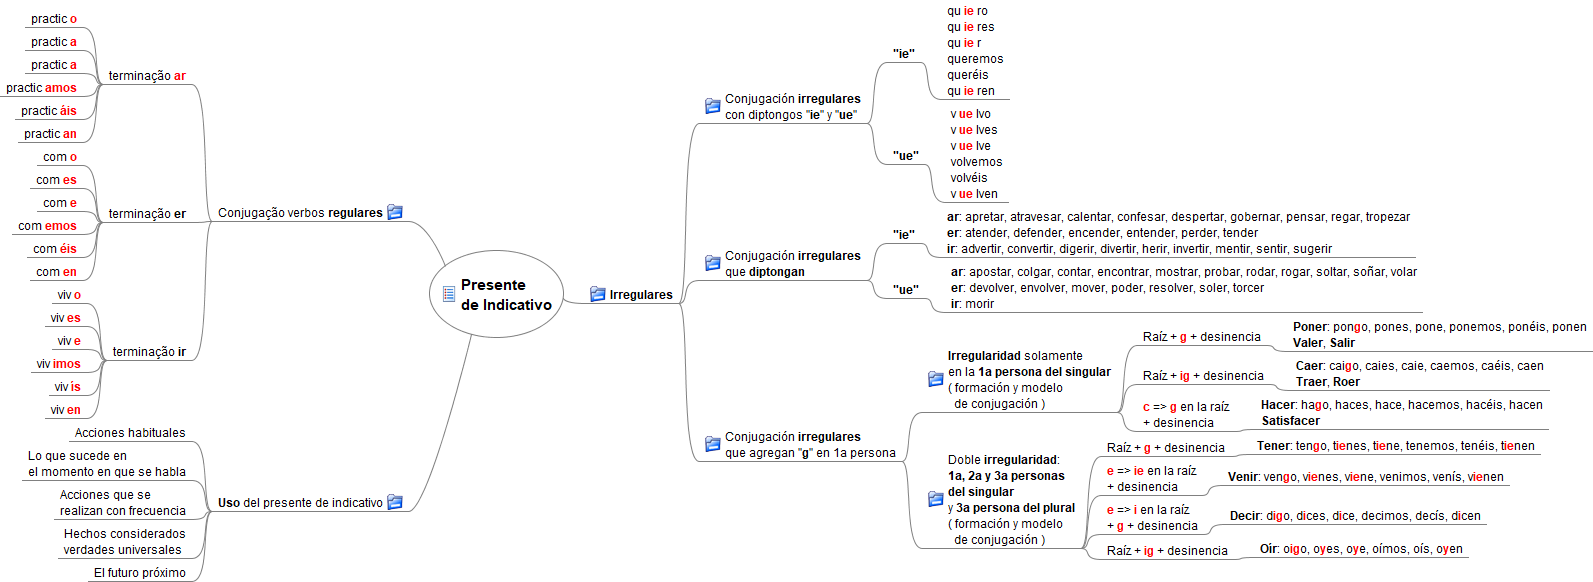
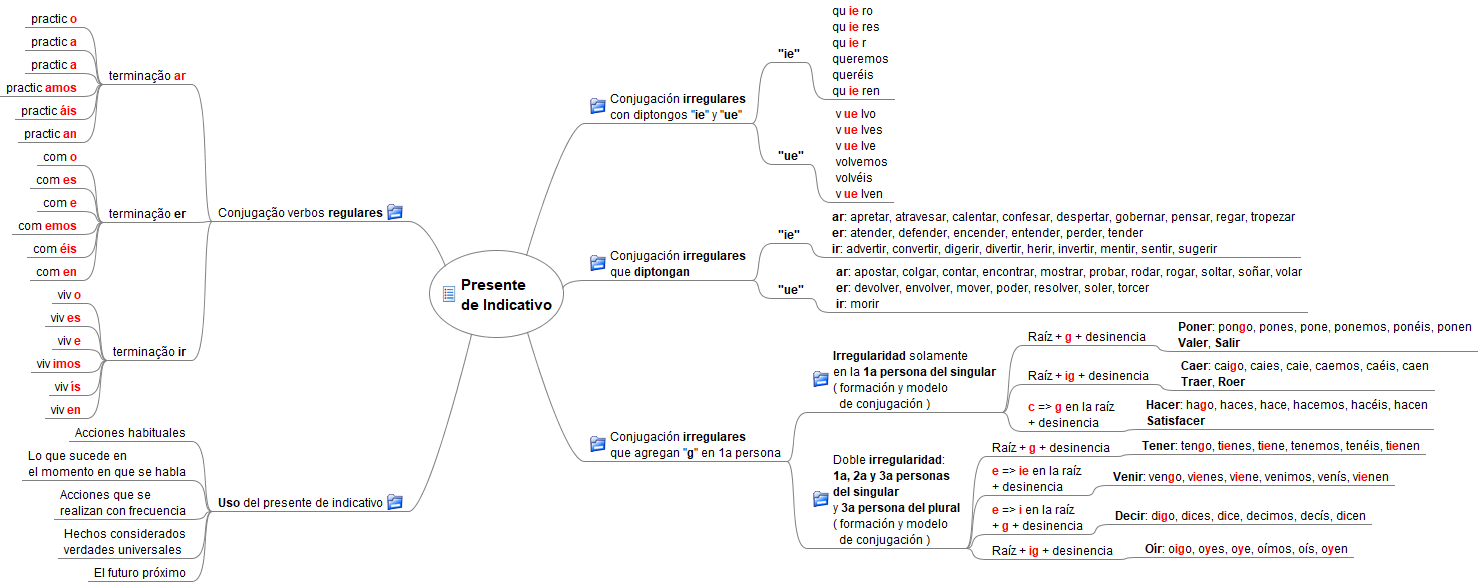
.

Changed region(s): [[0.3735, 0.5567, 0.9959, 0.9588], [0.2801, 0.0, 0.9026, 0.5876], [0.0, 0.0309, 0.2801, 1.0]]

diff --git a/assets/mindmaps/Presente Indicativo.mm b/assets/mindmaps/Presente Indicativo.mm
@@ -13,8 +13,7 @@
       de Indicativo
     </p>
   </body>
-</html>
-</richcontent>
+</html></richcontent>
 <font BOLD="true" NAME="SansSerif" SIZE="15"/>
 <icon BUILTIN="list"/>
 <node CREATED="1546381264311" ID="ID_1674431836" MODIFIED="1546541669351" POSITION="left">
@@ -312,8 +311,7 @@
       el momento en que se habla
     </p>
   </body>
-</html>
-</richcontent>
+</html></richcontent>
 </node>
 <node CREATED="1546542090035" ID="ID_679501869" MODIFIED="1546542360038">
 <richcontent TYPE="NODE"><html>
@@ -328,8 +326,7 @@
       realizan con frecuencia
     </p>
   </body>
-</html>
-</richcontent>
+</html></richcontent>
 </node>
 <node CREATED="1546542094772" ID="ID_887494364" MODIFIED="1546542365109">
 <richcontent TYPE="NODE"><html>
@@ -344,26 +341,11 @@
       verdades universales
     </p>
   </body>
-</html>
-</richcontent>
+</html></richcontent>
 </node>
 <node CREATED="1546542103826" ID="ID_1673472481" MODIFIED="1546542104842" TEXT="El futuro pr&#xf3;ximo"/>
 </node>
-<node CREATED="1546541046630" ID="ID_968147259" MODIFIED="1546542325832" POSITION="right">
-<richcontent TYPE="NODE"><html>
-  <head>
-    
-  </head>
-  <body>
-    <p>
-      <b>Irregulares</b>
-    </p>
-  </body>
-</html>
-</richcontent>
-<font NAME="SansSerif" SIZE="12"/>
-<icon BUILTIN="folder"/>
-<node CREATED="1546541046630" ID="ID_700131416" MODIFIED="1546542888467">
+<node CREATED="1546541046630" ID="ID_700131416" MODIFIED="1546542888467" POSITION="right">
 <richcontent TYPE="NODE"><html>
   <head>
     
@@ -406,8 +388,7 @@
       qu <b><font color="#ff0000">ie</font></b>&#160;ren
     </p>
   </body>
-</html>
-</richcontent>
+</html></richcontent>
 </node>
 </node>
 <node CREATED="1546542901293" ID="ID_813779003" MODIFIED="1546542909902" TEXT="&quot;ue&quot;">
@@ -437,12 +418,11 @@
       v <b><font color="#ff0000">ue</font></b>&#160;lven
     </p>
   </body>
-</html>
-</richcontent>
+</html></richcontent>
 </node>
 </node>
 </node>
-<node CREATED="1546541076566" ID="ID_1067048726" MODIFIED="1546541669351">
+<node CREATED="1546541076566" ID="ID_1067048726" MODIFIED="1546541669351" POSITION="right">
 <richcontent TYPE="NODE"><html>
   <head>
     
@@ -475,8 +455,7 @@
       <b>ir</b>: advertir, convertir, digerir, divertir, herir, invertir, mentir, sentir, sugerir
     </p>
   </body>
-</html>
-</richcontent>
+</html></richcontent>
 <font NAME="SansSerif" SIZE="12"/>
 </node>
 </node>
@@ -498,12 +477,11 @@
       <b>ir</b>: morir
     </p>
   </body>
-</html>
-</richcontent>
+</html></richcontent>
 </node>
 </node>
 </node>
-<node CREATED="1546541085071" ID="ID_975839380" MODIFIED="1546541669351">
+<node CREATED="1546541085071" ID="ID_975839380" MODIFIED="1546541669351" POSITION="right">
 <richcontent TYPE="NODE"><html>
   <head>
     
@@ -537,8 +515,7 @@
       &#160;&#160;de conjugaci&#243;n )
     </p>
   </body>
-</html>
-</richcontent>
+</html></richcontent>
 <icon BUILTIN="folder"/>
 <node CREATED="1546543473812" ID="ID_1339468018" MODIFIED="1546543491929">
 <richcontent TYPE="NODE"><html>
@@ -650,8 +627,7 @@
       &#160;&#160;de conjugaci&#243;n )
     </p>
   </body>
-</html>
-</richcontent>
+</html></richcontent>
 <icon BUILTIN="folder"/>
 <node CREATED="1546543473812" ID="ID_565988403" MODIFIED="1546543491929">
 <richcontent TYPE="NODE"><html>
@@ -674,8 +650,7 @@
       <b>Tener</b>: ten<b><font color="#ff0000">g</font></b>o, t<b><font color="#ff0000">ie</font></b>nes, t<b><font color="#ff0000">ie</font></b>ne, tenemos, ten&#233;is, t<b><font color="#ff0000">ie</font></b>nen
     </p>
   </body>
-</html>
-</richcontent>
+</html></richcontent>
 </node>
 </node>
 <node CREATED="1546543473812" ID="ID_404670303" MODIFIED="1546545169823">
@@ -691,8 +666,7 @@
       + desinencia
     </p>
   </body>
-</html>
-</richcontent>
+</html></richcontent>
 <node CREATED="1546543596994" ID="ID_556966770" MODIFIED="1546545512503">
 <richcontent TYPE="NODE"><html>
   <head>
@@ -703,8 +677,7 @@
       <b>Venir</b>: ven<b><font color="#ff0000">g</font></b>o, v<b><font color="#ff0000">ie</font></b>nes, v<b><font color="#ff0000">ie</font></b>ne, venimos, ven&#237;s, v<b><font color="#ff0000">ie</font></b>nen
     </p>
   </body>
-</html>
-</richcontent>
+</html></richcontent>
 </node>
 </node>
 <node CREATED="1546543473812" ID="ID_462042528" MODIFIED="1546545571790">
@@ -720,8 +693,7 @@
       + <b><font color="#ff0000">g</font></b>&#160;+ desinencia
     </p>
   </body>
-</html>
-</richcontent>
+</html></richcontent>
 <node CREATED="1546543596994" ID="ID_904906988" MODIFIED="1546545638586">
 <richcontent TYPE="NODE"><html>
   <head>
@@ -732,8 +704,7 @@
       <b>Decir</b>: d<b><font color="#ff0000">ig</font></b>o, d<b><font color="#ff0000">i</font></b>ces, d<b><font color="#ff0000">i</font></b>ce, decimos, dec&#237;s, d<b><font color="#ff0000">i</font></b>cen
     </p>
   </body>
-</html>
-</richcontent>
+</html></richcontent>
 </node>
 </node>
 <node CREATED="1546543473812" ID="ID_1622083960" MODIFIED="1546546075745">
@@ -746,8 +717,7 @@
       Ra&#237;z + <b><font color="#ff0000">ig</font></b>&#160;+ desinencia
     </p>
   </body>
-</html>
-</richcontent>
+</html></richcontent>
 <node CREATED="1546543596994" ID="ID_1948695563" MODIFIED="1546546137392">
 <richcontent TYPE="NODE"><html>
   <head>
@@ -758,9 +728,7 @@
       <b>O&#237;r</b>: o<b><font color="#ff0000">ig</font></b>o, o<b><font color="#ff0000">y</font></b>es, o<b><font color="#ff0000">y</font></b>e, o&#237;mos, o&#237;s, o<b><font color="#ff0000">y</font></b>en
     </p>
   </body>
-</html>
-</richcontent>
-</node>
+</html></richcontent>
 </node>
 </node>
 </node>
